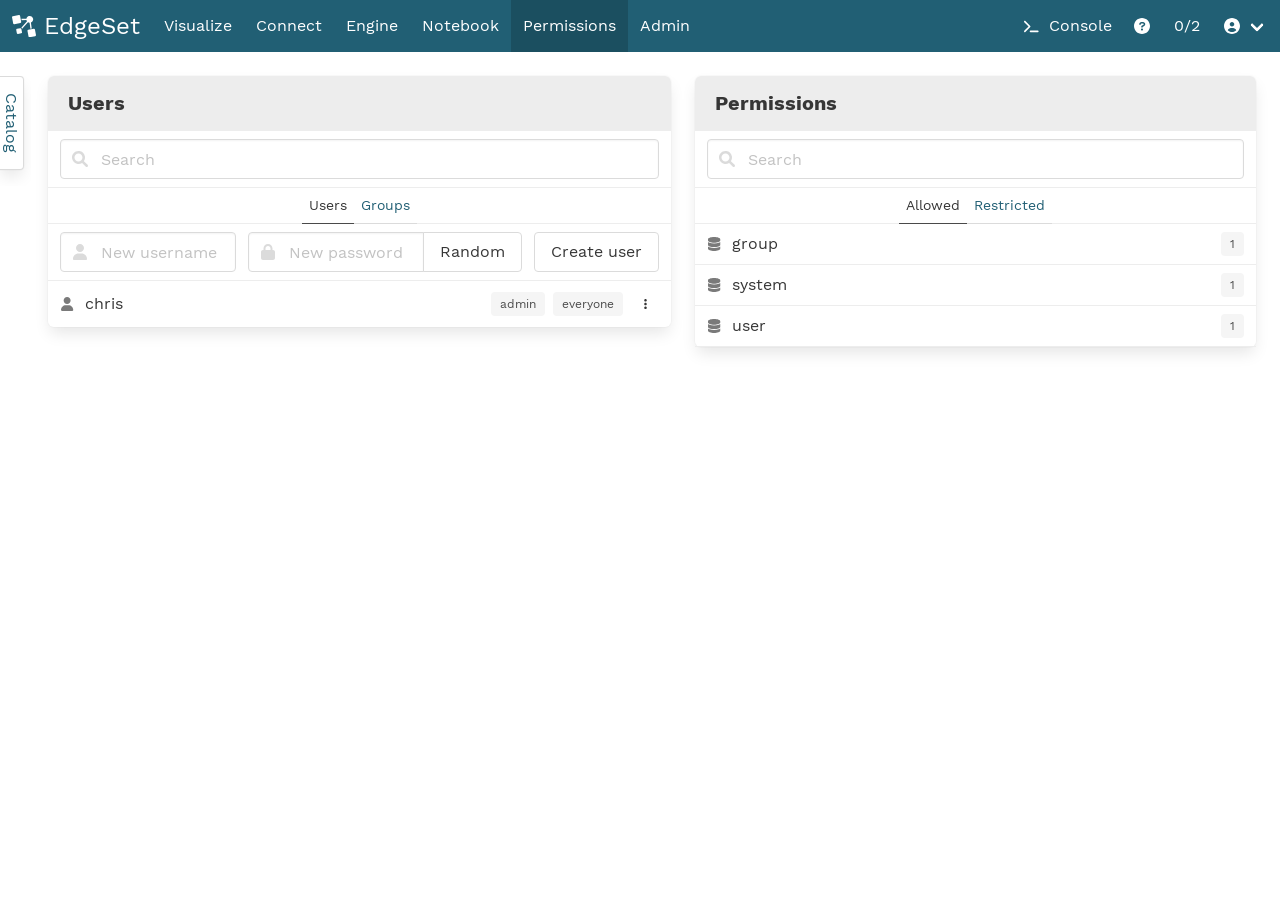
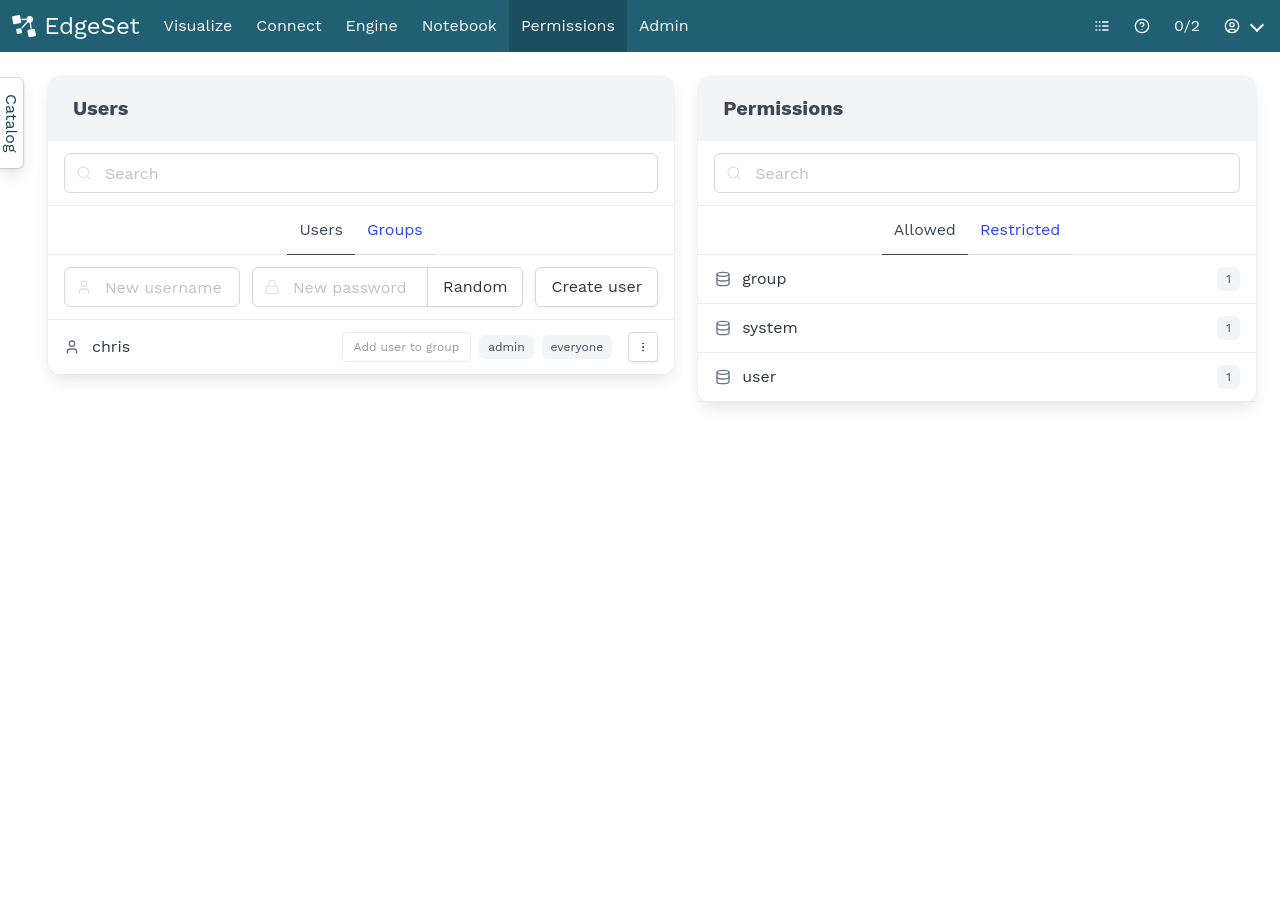
updated EdgeSet manual (en-US)

diff --git a/public/edgeset/manual/current/en-US/query-engine.html b/public/edgeset/manual/current/en-US/query-engine.html
@@ -230,9 +230,9 @@ ul.task-list li input[type="checkbox"] {
   <li><a href="#user-queries" id="toc-user-queries" class="nav-link" data-scroll-target="#user-queries"><span class="header-section-number">5.3.1</span> User Queries</a></li>
   <li><a href="#system-queries" id="toc-system-queries" class="nav-link" data-scroll-target="#system-queries"><span class="header-section-number">5.3.2</span> System Queries</a></li>
   </ul></li>
-  <li><a href="#console" id="toc-console" class="nav-link" data-scroll-target="#console"><span class="header-section-number">5.4</span> Console</a>
+  <li><a href="#logs" id="toc-logs" class="nav-link" data-scroll-target="#logs"><span class="header-section-number">5.4</span> Logs</a>
   <ul class="collapse">
-  <li><a href="#opening-the-console" id="toc-opening-the-console" class="nav-link" data-scroll-target="#opening-the-console"><span class="header-section-number">5.4.1</span> Opening the Console</a></li>
+  <li><a href="#opening-the-logs" id="toc-opening-the-logs" class="nav-link" data-scroll-target="#opening-the-logs"><span class="header-section-number">5.4.1</span> Opening the Logs</a></li>
   </ul></li>
   </ul>
 </nav>
@@ -288,12 +288,6 @@ ul.task-list li input[type="checkbox"] {
 <li>Status: Status of the query.</li>
 <li>Action: Display’s a cancellation link to cancel the associated query.</li>
 </ul>
-<div class="quarto-figure quarto-figure-center">
-<figure class="figure">
-<p><img src="screenshots/user-queries.png" class="img-fluid figure-img"></p>
-<figcaption><code>User Queries</code> panel displaying a table of queries and <code>Cancel all queries</code> button</figcaption>
-</figure>
-</div>
 <p>You can cancel a query individually associcated with a user or cancel all the queries by clicking the <code>Cancel all queries</code> button present in the header of the query management tables.</p>
 </section>
 <section id="system-queries" class="level3" data-number="5.3.2">
@@ -302,19 +296,19 @@ ul.task-list li input[type="checkbox"] {
 <p>Note: Unless necessary it’s advisable not to cancel the displayed system queries as it could lead to unexpected errors for users.</p>
 </section>
 </section>
-<section id="console" class="level2" data-number="5.4">
-<h2 data-number="5.4" class="anchored" data-anchor-id="console"><span class="header-section-number">5.4</span> Console</h2>
-<p>If adding a data source doesn’t work as expected, you can open the <code>Console</code> to view log messages.</p>
-<section id="opening-the-console" class="level3" data-number="5.4.1">
-<h3 data-number="5.4.1" class="anchored" data-anchor-id="opening-the-console"><span class="header-section-number">5.4.1</span> Opening the Console</h3>
-<p>Open the console by clicking on <code>Console</code> in the menu, a panel will pop out from the bottom of the page.</p>
+<section id="logs" class="level2" data-number="5.4">
+<h2 data-number="5.4" class="anchored" data-anchor-id="logs"><span class="header-section-number">5.4</span> Logs</h2>
+<p>If adding a data source doesn’t work as expected, you can open the <code>Logs</code> to view log messages.</p>
+<section id="opening-the-logs" class="level3" data-number="5.4.1">
+<h3 data-number="5.4.1" class="anchored" data-anchor-id="opening-the-logs"><span class="header-section-number">5.4.1</span> Opening the Logs</h3>
+<p>Open the logs by clicking on <code>Logs</code> icon in the menu, a panel will pop out from the bottom of the page.</p>
 <div class="quarto-figure quarto-figure-center">
 <figure class="figure">
-<p><img src="screenshots/console.png" class="img-fluid figure-img"></p>
-<figcaption>an empty console</figcaption>
+<p><img src="screenshots/logs.png" class="img-fluid figure-img"></p>
+<figcaption>an empty logs panel</figcaption>
 </figure>
 </div>
-<p>Note that the console only displays the last 1000 log entries.</p>
+<p>Note that only the last 1000 log entries are displayed.</p>
 
 
 </section>

diff --git a/public/edgeset/manual/current/en-US/query-notebook.html b/public/edgeset/manual/current/en-US/query-notebook.html
@@ -232,11 +232,6 @@ ul.task-list li input[type="checkbox"] {
   <ul class="collapse">
   <li><a href="#query-timeouts" id="toc-query-timeouts" class="nav-link" data-scroll-target="#query-timeouts"><span class="header-section-number">7.3.1</span> Query timeouts</a></li>
   </ul></li>
-  <li><a href="#keyboard-shortcuts" id="toc-keyboard-shortcuts" class="nav-link" data-scroll-target="#keyboard-shortcuts"><span class="header-section-number">7.4</span> Keyboard Shortcuts</a>
-  <ul class="collapse">
-  <li><a href="#query-cards-1" id="toc-query-cards-1" class="nav-link" data-scroll-target="#query-cards-1"><span class="header-section-number">7.4.1</span> Query cards</a></li>
-  <li><a href="#other-shortcuts" id="toc-other-shortcuts" class="nav-link" data-scroll-target="#other-shortcuts"><span class="header-section-number">7.4.2</span> Other shortcuts</a></li>
-  </ul></li>
   </ul>
 </nav>
     </div>
@@ -324,31 +319,6 @@ ul.task-list li input[type="checkbox"] {
 <section id="query-timeouts" class="level3" data-number="7.3.1">
 <h3 data-number="7.3.1" class="anchored" data-anchor-id="query-timeouts"><span class="header-section-number">7.3.1</span> Query timeouts</h3>
 <p>The query engine will only keep idle queries alive for 5 minutes before they will be terminated. If this happens and you try to load more results, EdgeSet will ask if you want to rerun the query.</p>
-</section>
-</section>
-<section id="keyboard-shortcuts" class="level2" data-number="7.4">
-<h2 data-number="7.4" class="anchored" data-anchor-id="keyboard-shortcuts"><span class="header-section-number">7.4</span> Keyboard Shortcuts</h2>
-<section id="query-cards-1" class="level3" data-number="7.4.1">
-<h3 data-number="7.4.1" class="anchored" data-anchor-id="query-cards-1"><span class="header-section-number">7.4.1</span> Query cards</h3>
-<p>The notebook interface supports keyboard navigation and shortcuts to manage the queries and its results.</p>
-<p>For instance, if a query card is focused, you can press <code>Enter</code> to focus on its result table and navigate across the cells using the <code>up</code> and <code>down</code> arrows keys. To restore focus back on the card, press <code>Escape</code>. If the card is focused, you can sequentially access the controls on the card using the <code>tab</code> key.</p>
-<div class="quarto-figure quarto-figure-center">
-<figure class="figure">
-<p><img src="screenshots/query-card-tab.png" class="img-fluid figure-img"></p>
-<figcaption>A focused control on the query card accessible through pressing <code>Tab</code></figcaption>
-</figure>
-</div>
-<p>To access the JSON viewer or the Long text viewer for a focused cell, you can press <code>Enter</code> and to close the viewer, press <code>Escape</code>.</p>
-<p>If the query card is focused (that is, the focus is outside the result table), you can navigate through the list of query cards using the <code>up</code> and <code>down</code> arrows to switch focus on the queries above and below the current focused one.</p>
-</section>
-<section id="other-shortcuts" class="level3" data-number="7.4.2">
-<h3 data-number="7.4.2" class="anchored" data-anchor-id="other-shortcuts"><span class="header-section-number">7.4.2</span> Other shortcuts</h3>
-<p>Edgeset also supports the following keyboard shortcuts:</p>
-<ul>
-<li><code>Ctrl+B</code> - toggle the sidebar</li>
-<li><code>Ctrl+/</code> - focus the query editor</li>
-<li><code>Ctrl+Shift+R</code> - refresh the catalog</li>
-</ul>
 
 
 </section>

diff --git a/public/edgeset/manual/current/en-US/data-sources.html b/public/edgeset/manual/current/en-US/data-sources.html
@@ -324,16 +324,21 @@ ul.task-list li input[type="checkbox"] {
 <td style="text-align: left;"></td>
 </tr>
 <tr class="odd">
+<td style="text-align: left;">OpenAPI</td>
+<td style="text-align: left;">3.0 or higher</td>
+<td style="text-align: left;"></td>
+</tr>
+<tr class="even">
 <td style="text-align: left;">Oracle</td>
 <td style="text-align: left;">11g or higher</td>
 <td style="text-align: left;"></td>
 </tr>
-<tr class="even">
+<tr class="odd">
 <td style="text-align: left;">PostgreSQL</td>
 <td style="text-align: left;">10.0 or higher</td>
 <td style="text-align: left;"></td>
 </tr>
-<tr class="odd">
+<tr class="even">
 <td style="text-align: left;">SQL Server</td>
 <td style="text-align: left;">2012 or higher or Azure SQL</td>
 <td style="text-align: left;"></td>

diff --git a/public/edgeset/manual/current/en-US/backups.html b/public/edgeset/manual/current/en-US/backups.html
@@ -303,12 +303,6 @@ pre > code.sourceCode > span > a:first-child::before { text-decoration: underlin
 <div class="quarto-figure quarto-figure-center">
 <figure class="figure">
 <p><img src="screenshots/restore-step-2.png" class="img-fluid figure-img"></p>
-<figcaption>When you select a backup file to restore from, EdgeSet will verify that it can safely restore from it.</figcaption>
-</figure>
-</div>
-<div class="quarto-figure quarto-figure-center">
-<figure class="figure">
-<p><img src="screenshots/restore-step-3.png" class="img-fluid figure-img"></p>
 <figcaption>EdgeSet displays information about the backup file before confirming that you want to restore it.</figcaption>
 </figure>
 </div>

diff --git a/public/edgeset/manual/current/en-US/permissions.html b/public/edgeset/manual/current/en-US/permissions.html
@@ -276,7 +276,7 @@ ul.task-list li input[type="checkbox"] {
 <p>To grant a group or user access to a data source, click on the data source to expand it and then select the group or user from the <code>Group or user</code> dropdown menu.</p>
 <div class="quarto-figure quarto-figure-center">
 <figure class="figure">
-<p><img src="screenshots/analysts-read-only.png" class="img-fluid figure-img" style="width:50.0%"></p>
+<p><img src="screenshots/analysts-edgeset-access.png" class="img-fluid figure-img" style="width:50.0%"></p>
 <figcaption>the <code>analysts</code> group has been granted access to the <code>edgeset</code> data source</figcaption>
 </figure>
 </div>

diff --git a/public/edgeset/manual/current/en-US/users-and-groups.html b/public/edgeset/manual/current/en-US/users-and-groups.html
@@ -268,7 +268,7 @@ ul.task-list li input[type="checkbox"] {
 </div>
 <div class="quarto-figure quarto-figure-center">
 <figure class="figure">
-<p><img src="screenshots/change-password.png" class="img-fluid figure-img"></p>
+<p><img src="screenshots/settings.png" class="img-fluid figure-img"></p>
 <figcaption>Users can change their password once they have logged in by visiting their user settings page.</figcaption>
 </figure>
 </div>
